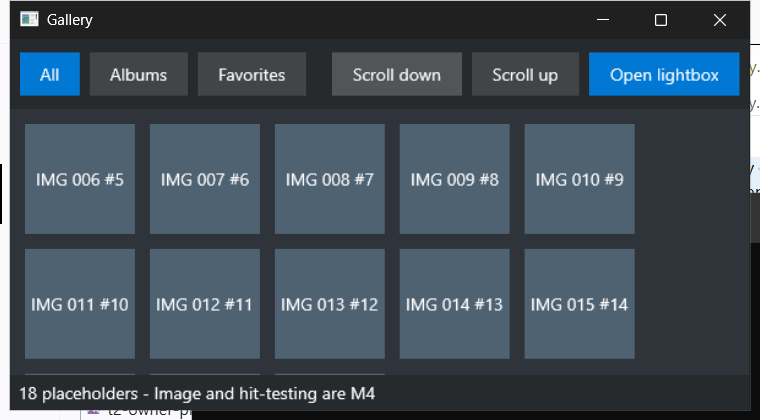
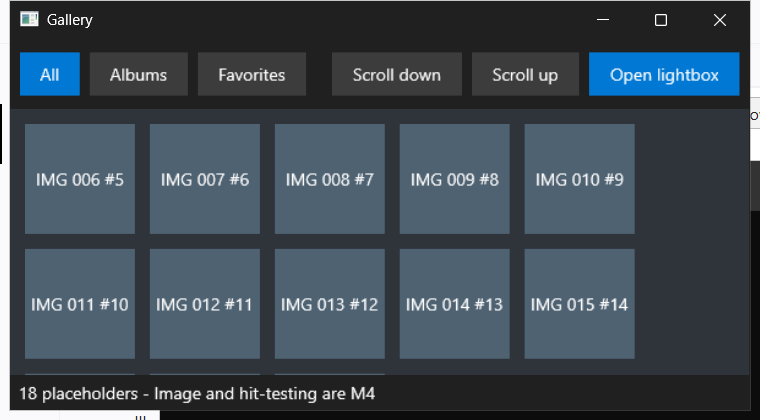
fix(m3-phase-8): sync T2 R-2 evidence record
Remove the landed root fill from the Gallery skeleton, regenerate the retained T2 screenshots, and clarify that R-2 closes on checked visual ambiguity against the final effective background rather than on proving Mica separately.

diff --git a/process/milestone-3/phase-8/implementation/log.md b/process/milestone-3/phase-8/implementation/log.md
@@ -97,8 +97,10 @@ known widget (no unknown-widget warning), and T3/T4 trap-#1 audit must be
 - **Visual composition:** let `enabled: false` keep the existing disabled
   override. For enabled `ToggleButton`s, `checked` should alter the
   background color in a way that remains visibly distinct from default and
-  accent normal states; if the two-frame evidence is ambiguous against Mica,
-  T4 records an SI-1 implementation-checkpoint design revision trigger.
+  accent normal states; if the two-frame evidence is ambiguous against the
+  final effective Gallery background, T4 records an SI-1 implementation-
+  checkpoint design revision trigger. Mica/backdrop is a possible
+  ambiguity factor, not a separate proof target.
 - **Author-facing boundary:** do not add `checkable`, generic `Toggle`,
   self-toggle, two-way binding, group widgets, or `==` grammar in T3/T4.
 
@@ -252,10 +254,12 @@ independent-review GUI evidence task per the preamble.
 Implemented the first non-throwaway Photo Gallery skeleton in
 `examples/gallery/gallery.ui`:
 
-- Root `ZStack` with an opaque background `Box` and a real stretch `Grid`
-  frame (`rows: 56 1* 28`, `columns: 1* 1*`). The header uses two
-  side-by-side cells; the content and status regions use `column-span: 2`
-  to span the full frame width.
+- Root `ZStack` with a real stretch `Grid` frame (`rows: 56 1* 28`,
+  `columns: 1* 1*`). The header uses two side-by-side cells; the content
+  and status regions use `column-span: 2` to span the full frame width.
+  There is no root fill `Box`; the header/status background is the
+  effective window/backdrop surface, while the thumbnail content area has
+  its own darker `Box`.
 - The left header cell holds the tab placeholder `HStack` (`All`,
   `Albums`, `Favorites`), with `All` styled `accent` only as the T2
   placeholder; T5 swaps this to `ToggleButton` / `checked`.
@@ -289,9 +293,12 @@ Assistant image analysis:
 - `t2-owner-placement-wide.png`: non-blank Gallery window; left tab group,
   right operation group, padded thumbnail grid, and status strip are
   visible. The wide frame shows 18 thumbnails arranged as 9 columns x 2
-  rows. The accepted top-row and thumbnail placeholder colors keep labels
-  readable. This run is after the owner placement change to two star
-  columns with `column-span: 2` on the content/status rows.
+  rows. Header/status areas are no longer covered by an explicit root fill
+  Box; the current capture shows the dark effective window/backdrop
+  surface behind those rows, with the thumbnail area still carried by the
+  darker `#2f343b` content Box. This run is after the owner placement
+  change to two star columns with `column-span: 2` on the content/status
+  rows.
 - `t2-owner-placement-narrow.png`: same surface at 760px width; thumbnails
   reflow to 5 columns (with a final partial row). This is the T2
   positive control for the real stretch Grid + WrapPanel path,
@@ -317,6 +324,10 @@ owner-placement run; earlier `t2-skeleton-*`, `t2-row56-*`,
 `t2-row64-*`, `t2-accepted-colors-*`, and `t2-span-frame-*` captures were
 superseded during iteration and deleted before commit.
 
+After the post-review R-2 discussion, the owner removed the explicit root
+fill from `gallery.ui`; the retained `t2-owner-placement-*` frames were
+regenerated from the saved script against that current source state.
+
 Additional owner G(1) feedback before T2 close:
 
 - The top tab/action Button labels looked vertically biased because the
@@ -328,13 +339,18 @@ Additional owner G(1) feedback before T2 close:
 - The thumbnail area lacked top/left inset. T2 fixed this with existing
   DSL surface by wrapping the thumbnail `WrapPanel` in a
   `ScrollView`-content `VStack { padding: 12px }`.
-- A stretch opaque root background was added so the skeleton does not
-  depend on compositor/backdrop transparency or show unrelated desktop
-  pixels. The latest owner placement uses that background as the header
-  and status band, with a darker content `Box` behind the thumbnail area.
-- The top row background was owner-reviewed away from the trial
-  `#301010` color and accepted as `#272a2d`: a neutral dark band that
-  separates row 1 from row 2 while preserving Button/Text contrast.
+- A stretch opaque root background was trialed to make the skeleton
+  independent of compositor/backdrop transparency. After the R-2 review,
+  the owner removed that root fill from `gallery.ui`. The current
+  owner-placement captures therefore leave the header and status rows on
+  the effective window/backdrop surface; only the thumbnail area keeps a
+  dedicated darker `#2f343b` content `Box`.
+- The trial top-row background (`#301010`, later `#272a2d`) is no longer a
+  landed explicit fill. The durable requirement is not that exact color:
+  tab/action labels must remain readable, the first and second rows must
+  remain visually distinguishable, and T4/T7 must judge
+  `ToggleButton.checked` against the final effective background rather
+  than treating Mica itself as a separate acceptance target.
 - The top row content is split into two Grid cells: the tab `HStack` is
   left-aligned in the first star column, while the scroll/lightbox
   operation `HStack` is right-aligned in the second star column.
@@ -364,7 +380,7 @@ T2 technical findings / triage:
 | Light tab-band chrome made default Button labels unreadable. | Removed the light tab background and updated placeholder fills to maintain contrast with the current white Text/Button rendering. This is an owner-feedback correction in the G(1) checkpoint, not a new design surface. |
 | Top-row Button labels looked lower than centered. | Fixed in T2 by increasing the tab row height to `56`; the cause was row clipping, not a runtime Button visual issue. `auto` row tracks are unavailable in the current checker/runtime surface. |
 | Thumbnail area lacked top/left padding. | Fixed in T2 with `VStack { padding: 12px }` inside the ScrollView content. |
-| Trial top-row and placeholder colors needed owner direction. | Owner accepted `#272a2d` for the top row, `#4f6272` for thumbnail placeholders, and `#5b7080` for the lightbox image placeholder. |
+| Trial top-row and placeholder colors needed owner direction. | Owner first accepted `#272a2d` as a readable trial top-row fill, then removed the explicit root/top-row fill after the R-2 review. Current T2 captures use the effective window/backdrop surface behind the header/status rows. Owner-accepted placeholder colors remain `#4f6272` for thumbnails and `#5b7080` for the lightbox image placeholder. |
 | The first T2 skeleton had no `column-span` after removing the old verification Grid. | Fixed in the current owner placement by using a two-star-column frame and applying `column-span: 2` to the content and status rows. This avoids silent deferral of the Grid column-span surface. |
 | The first T2 owner-placement lightbox still did not exercise row-span or Grid direct-child `slot.*`. | Fixed in T2 by moving lightbox nav/close Buttons to direct Grid children with `slot.*` placement; the side nav Buttons use `slot.row-span: 2`. |
 | Status text remains intentionally static and short. | Accepted M3 placeholder; dynamic collection length remains out of scope. |
@@ -379,7 +395,7 @@ or record an explicit deviation with owner/review disposition.
 | Gallery surface | M3 implementation / placeholder agreement candidate | Later owner |
 |---|---|---|
 | Overall frame | Real stretch Grid frame (`rows: 56 / 1* / 28`, `columns: 1* / 1*`) with content/status spanning both columns via `column-span: 2`; no transparent fixed sizer shim in the current `.ui`. | T5 keeps/revises with a recorded Problem B disposition; no layout-engine change in Phase 8. |
-| Tabs | T2 plain-Button placeholder on the accepted `#272a2d` header band; labels must remain readable. The tab group is left-aligned in the first header cell, while scroll/lightbox actions are right-aligned in the second header cell. T5 replaces the tab group with 3 `ToggleButton`s and α live exclusion. | T5/T7 prove selected/exclusion. |
+| Tabs | T2 plain-Button placeholder on the effective window/backdrop header surface; labels must remain readable and the header/content boundary must remain clear. The tab group is left-aligned in the first header cell, while scroll/lightbox actions are right-aligned in the second header cell. T5 replaces the tab group with 3 `ToggleButton`s and α live exclusion. R-2 is about `ToggleButton.checked` being visually unambiguous against the final effective background, not about proving Mica as a separate feature. | T5/T7 prove selected/exclusion and close R-2 with the checked/on-off positive control. |
 | Thumbnail area | Spanned content cell with darker `#2f343b` background; `ScrollView` + padded content `VStack` + `WrapPanel` + `for` over placeholder labels; `#4f6272` Box + Text stands in for images. | T5 final A1 integration; T7 wrap/overflow evidence. |
 | Thumbnail highlight | Omitted per TH-a / DD-001; no static selected-thumbnail highlight in M3. | None unless owner revises DD scope. |
 | Real images / hit-testing | Box + Text placeholders; `Open lightbox` Button is the M3 hit-testing substitute. | M4. |
@@ -404,7 +420,7 @@ reject / size branch (#4).
 | Footer-overflow clip demo removed from the Gallery surface. | The final app no longer exposes the old top Grid/footer clipping proof. The Grid concept is reused only as the Gallery frame. |
 | Static ten-photo thumbnail proof replaced by an 18-label `for`/`WrapPanel` thumbnail surface. | A1 thumbnail wrapping remains exercised, with enough cardinality to show wrap and scroll; old static `Photo 1`-style evidence frames were deleted as obsolete. |
 | Add/Remove/Clear/Reset mutation controls removed. | Owner accepted omission from the final Gallery UI because Phase 7 already verified `.append`, `.drop-last`, empty-list assignment, static-list reassignment, and dynamic `for` cardinality. T5/T8 must cite that coverage if the controls remain omitted. |
-| Root layout changed to `ZStack` + stretch two-column `Grid` frame with no transparent fixed sizer shim. | Header/content/status placement is now the Gallery skeleton. Problem B remains a layout-engine residual; T2 did not introduce a layout-engine change. |
+| Root layout changed to `ZStack` + stretch two-column `Grid` frame with no transparent fixed sizer shim and no landed root fill `Box`. | Header/content/status placement is now the Gallery skeleton. Header/status rows use the effective window/backdrop surface; the thumbnail area has its own content `Box`. Problem B remains a layout-engine residual; T2 did not introduce a layout-engine change. |
 | Header split into left tab group and right operation group. | Plain Buttons remain T2 placeholders; T5 swaps tabs to `ToggleButton`. The row height is recorded as the T2 value (`56`) while the durable constraint is "no clipping / readable labels." |
 | Content/status rows span both Grid columns. | `column-span` is exercised in the Gallery surface instead of silently deferred. |
 | Lightbox controls moved to direct Grid children with `slot.*` placement; side controls use `slot.row-span: 2`. | A13 direct `slot.*` and row-span are now exercised by the Gallery surface. Prev/next remain inert placeholders; close remains live. |
@@ -423,6 +439,11 @@ reject / size branch (#4).
 - If mutation controls remain omitted, T5/T8 must cite the existing Phase
   7 collection/iteration coverage rather than treating the omission as a
   purely visual cleanup.
+- T4/T7 must close R-2 by proving that the final `ToggleButton.checked`
+  visual is unambiguous against the final effective Gallery background.
+  This is not a requirement to prove Mica as an independent feature; Mica
+  is only one possible backdrop/theme factor that could make a
+  background-only checked cue ambiguous.
 - T7 authoritative GUI evidence must re-derive coordinates after final
   ToggleButton/restyling work; T2 coordinates are not a reusable contract.
 - Problem B remains outside T2: if later work needs a sizing shim or a

diff --git a/process/milestone-3/phase-8/retrospectives/t2.md b/process/milestone-3/phase-8/retrospectives/t2.md
@@ -23,7 +23,7 @@ start gate / end gate は [../implementation/log.md](../implementation/log.md)
 
 ## チェックリスト（task-end、項目 1〜11）
 
-1. **今回の主な学び。** 三つ。
+1. **今回の主な学び。** 四つ。
    - **(a) Owner-facing UI review は、見た目の好みではなく意図の確認として扱うべきだった。**
      `不可` / `NG` 系のコメントでは理由と望ましい状態を確認し、row height、
      header alignment、placeholder colors、lightbox layout の合意を
@@ -37,6 +37,12 @@ start gate / end gate は [../implementation/log.md](../implementation/log.md)
      `spec.md` の scrim alpha caution は new alpha styling API を避ける
      意図として読むのが合理的で、Phase 6 FD-G の literal color support 後は
      `Box.fill: #RRGGBBAA` の半透明 scrim を A4/ZStack exercise として残せる。
+   - **(d) R-2 is a checked-visual ambiguity risk, not a Mica proof.**
+     Post-review owner discussion clarified that R-2 is satisfied by proving
+     `ToggleButton.checked` is unambiguous against the final effective
+     Gallery background. Mica/backdrop is only a possible ambiguity factor.
+     The explicit root fill was removed from `gallery.ui`, and the retained
+     T2 frames were regenerated against that source state.
 2. **仕様文書の変更。** なし。`docs/abi_spec.md` / `docs/architecture.md` /
    `docs/dsl_spec.md` は未編集。今回の変更は Gallery example、
    implementation plan/log、T2 evidence、retrospective に限定。
@@ -68,6 +74,9 @@ start gate / end gate は [../implementation/log.md](../implementation/log.md)
    - Thumbnail hit-testing, real image loading, wheel/drag scrollbar
      behavior, and dynamic collection-length status remain outside M3.
    - Problem B remains: T2 did not change layout-engine sizing behavior.
+   - R-2 remains open until T4/T7: T2 has no `ToggleButton` yet, so it can
+     only preserve the final-background premise and carry the checked
+     on/off evidence obligation forward.
 10. **新規の cross-task / cross-phase 設計制約。** あり。
     - **制約:** GUI evidence scripts that use screen coordinates must be
       regenerated or re-audited after any layout-affecting UI change.
@@ -80,6 +89,13 @@ start gate / end gate は [../implementation/log.md](../implementation/log.md)
       **エビデンス:** T2 table acceptance and Claude review findings around
       span/direct slot, scrim, prev/next, and mutation controls.
       **配置先:** `carry-forward` for T5/T7/T8.
+    - **制約:** R-2 must be closed against the final effective Gallery
+      background, not by separately proving Mica. If T5 changes the root
+      background or tab-band surface, T7 must capture the checked on/off
+      frames after that change.
+      **エビデンス:** Post-review owner discussion removed the explicit root
+      fill and reframed the R-2 carry-forward.
+      **配置先:** `carry-forward` for T4/T5/T7.
 11. **後続タスクリストの見直し。** 必要、実施済み。T5 sweep wording was
     updated so already-removed verification surfaces are checked as
     "do not reappear" rather than described as future removals. T7 remains
@@ -94,10 +110,14 @@ start gate / end gate は [../implementation/log.md](../implementation/log.md)
   stale lightbox capture coordinate.
 - Current `gallery.ui` exercises `column-span`, `row-span`, and direct
   Grid child `slot.*` placement inside the Gallery surface.
+- Current `gallery.ui` no longer has a root fill `Box`; header/status rows
+  sit on the effective window/backdrop surface, while the thumbnail area is
+  still covered by its `#2f343b` content `Box`.
 - `gallery-expression-use-cases.md` places the expression support needed
   for real lightbox prev/next navigation outside current M3.
 - Saved T2 capture script now reproduces the retained five evidence frames,
-  including a scroll-before/after positive control.
+  including a scroll-before/after positive control, after the root-fill
+  removal.
 
 ### 自己分析（どの層が外れたか）
 
@@ -105,7 +125,9 @@ start gate / end gate は [../implementation/log.md](../implementation/log.md)
   silent pixel tweaking. This led to a more reviewable A1/G(1) table.
 - **外れた点:** The first capture script treated coordinates as stable too
   casually. The evidence path only became auditable after re-deriving and
-  re-saving the script.
+  re-saving the script. This is not only a discipline problem: M3 lacks
+  semantic hit-testing/query hooks, so coordinate-based GUI evidence is
+  structurally prone to drift after layout changes.
 - **計画仮説の外れ:** The initial plan underweighted span/direct-slot
   coverage in the Gallery skeleton. It was feasible to exercise both in T2
   by revising the lightbox layout, so deferring them would have been weaker
@@ -117,6 +139,10 @@ start gate / end gate は [../implementation/log.md](../implementation/log.md)
   reproduce it" unless the log explicitly marks it as manual-only evidence.
 - Owner-facing placeholder tables should state both the visual decision and
   the coverage consequence when omitting an old verification control.
+- R-2 wording should name the actual acceptance question: `checked` on/off
+  must be readable against the final effective background. Mica/backdrop
+  should be recorded only as a possible factor that can make that cue
+  ambiguous.
 
 ### 後続 task への渡し方
 
@@ -124,6 +150,9 @@ start gate / end gate は [../implementation/log.md](../implementation/log.md)
   suggestion.
 - T7 must re-capture from the final surface; T2 evidence is a scaffold-level
   smoke, not authoritative phase-end proof.
+- T4/T7 own the real R-2 close: once `ToggleButton.checked` exists and T5
+  has finalized the tab surface, capture checked/unchecked frames against
+  the final effective Gallery background.
 - T8 should cite Phase 7 collection/iteration coverage if mutation controls
   stay omitted from the final Gallery UI.
 

diff --git a/process/milestone-3/phase-8/implementation/plan.md b/process/milestone-3/phase-8/implementation/plan.md
@@ -118,7 +118,9 @@ only if the log makes those three buckets auditable.
       *author-facing* taxonomy is DD-fixed), how `checked` reuses the
       existing single-boolean binding path, and how the V-a fill
       composes with `style` / `enabled` visuals (including the R-2
-      ambiguity check plan against Mica/backdrop).
+      ambiguity check plan against the final effective Gallery background;
+      Mica/backdrop is a possible ambiguity factor, not a separate proof
+      target).
 - [x] **Gallery + hosts recon**: map the current
       `examples/gallery/gallery.ui` sections to the wireframe target
       (what folds where; what is swept); list retained capture scripts
@@ -166,9 +168,9 @@ B residual. T2 must not silently absorb layout-engine changes or final UI
 judgments that belong to T5/T7/owner checkpoints.
 
 - [x] Restructure `examples/gallery/gallery.ui` to the **wireframe
-      skeleton**: Grid overall frame (rows ≈ tab band 40 / content 1* /
-      status 20; current T2 shape uses two star columns, direct `Cell`
-      alignment in the header, and content/status `column-span: 2`),
+      skeleton**: Grid overall frame (current T2 shape uses rows
+      `56 / 1* / 28`, two star columns, direct `Cell` alignment in the
+      header, and content/status `column-span: 2`),
       tab-band placeholder `HStack`, thumbnail area `ScrollView {
       WrapPanel { for … } }`, status strip `Text`, lightbox `ZStack` +
       `if` retained, Box `aspect` placeholders, `slot.*` placement —
@@ -256,10 +258,11 @@ node).
       (text / style / enabled / click) and leaf measure/arrange — a new
       node, not a new layout primitive; **V-a checked visual**:
       background colour change on `checked`, composing with `style` and
-      `enabled` states; verify the cue is unambiguous against the Mica
-      backdrop (R-2 — if ambiguous in practice, that is an SI-1
-      implementation-checkpoint revision recorded in log.md, not a new
-      option choice).
+      `enabled` states; verify the cue is unambiguous against the final
+      effective Gallery background (R-2 — Mica/backdrop is a possible
+      ambiguity factor, not a separate proof target; if ambiguous in
+      practice, that is an SI-1 implementation-checkpoint revision
+      recorded in log.md, not a new option choice).
 - [ ] Reactive path: a bool-state change through the existing binding
       drives the visual (propagation-audit point (ii)); `clicked`
       handler block-assignment writes the state (W1 controlled — the
